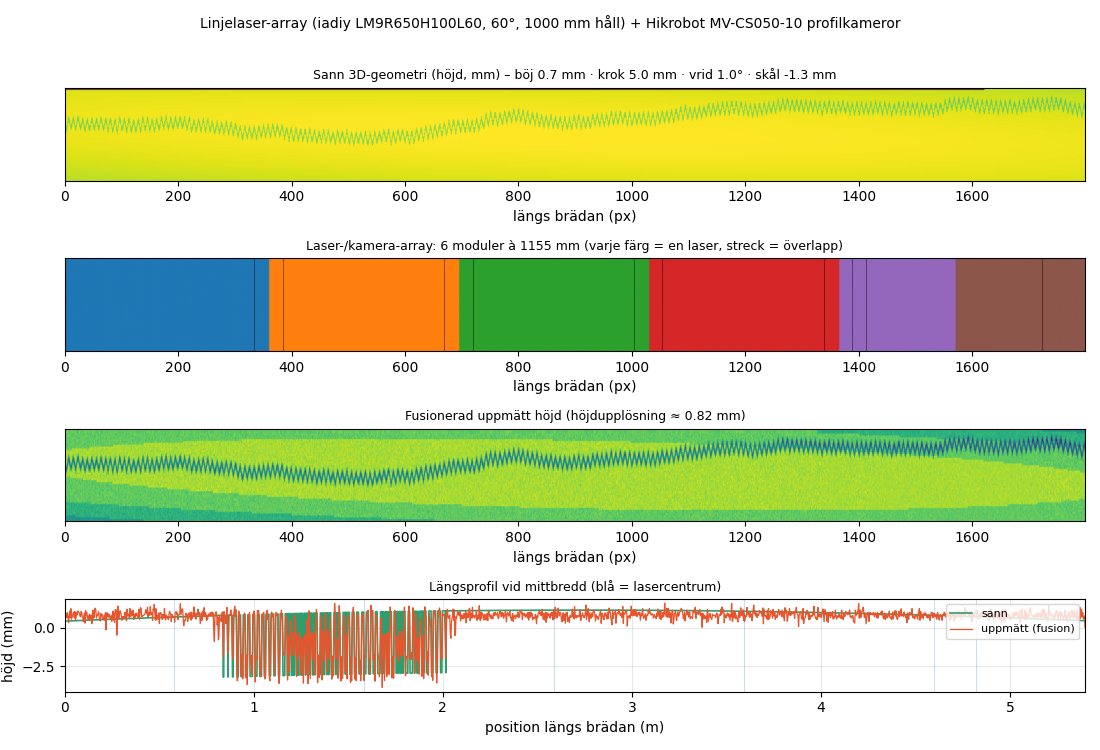
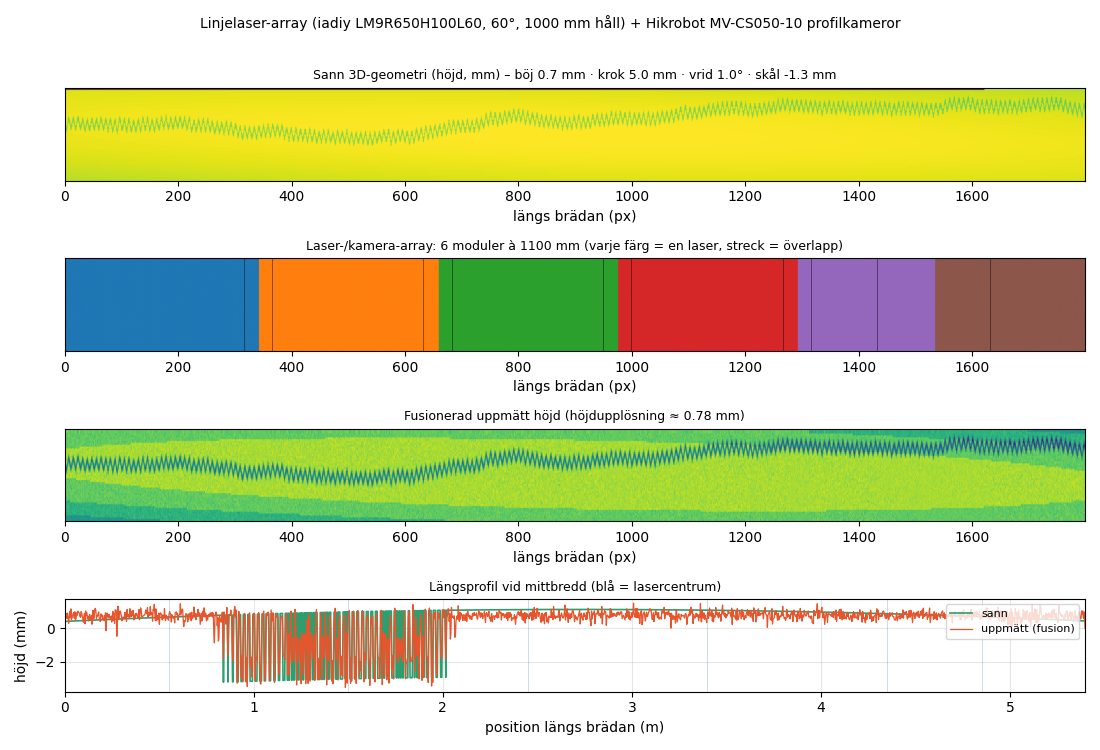
Rätt lasergeometri + synliga laserstripar i 3D-scenen
Korrigerar geometrin enligt verkligheten: brädan matas in med kortsidan, varje
laserstripe går TVÄRS de 150 mm bredden (inte längs 5,4 m-långsidan), och en
array av moduler tilar LÄNGDEN med överlapp + fusion.

- src/hardware.py: lasern dimensioneras för bredden (klarar 1,2 m linje men bara
  150 mm används); segmentlängden styrs av profilkamerans synfält längs längden
  (1100 mm). 6 lasrar + 6 profilkameror, 150 mm överlapp, 100 % täckning,
  höjdupplösning ~0,78 mm.
- scene.js (frontend + referens): ersätter den enda långa skannlinjen med en
  array av 6 laserstripar TVÄRS bredden, placerade längs längden, var och en
  med ett laserblad som triangulerar. Stripparna skalar med brädbredden.

diff --git a/claude_code_woody/js/scene.js b/claude_code_woody/js/scene.js
@@ -24,7 +24,8 @@
   };
 
   let renderer, scene, camera;
-  let scanLine, laserSheet, tracheidBeam, xrayBeam, underBeam, ledRing = [];
+  let laserStripes = [], laserFans = [], tracheidBeam, xrayBeam, underBeam, ledRing = [];
+  const NLAS = 6;                 // laser-/kameramoduler i array längs längden
   let sawBlade, pusherA, pusherB;
   let chains = [];
   const slots = [];
@@ -244,15 +245,23 @@
       g.add(led); ledRing.push(led);
     }
 
-    // skannlinje längs Z (hela längden)
-    scanLine = new T.Mesh(new T.PlaneGeometry(0.05, BOARD_LEN * 1.04),
-      new T.MeshBasicMaterial({ color: COL.laser, transparent: true, opacity: 0.95, depthWrite: false }));
-    scanLine.rotation.x = -Math.PI / 2; scanLine.position.set(SCAN_X, 0.03, 0); g.add(scanLine);
-
-    laserSheet = sheet(SCAN_X, 1.78, SCAN_X, 0.03, BOARD_LEN / 2, COL.laser, 0.12); g.add(laserSheet);
-    laserSheet.geometry.attributes.position.array[0] = SCAN_X - 0.5; // luta lite (triangulering)
-    laserSheet.geometry.attributes.position.array[3] = SCAN_X - 0.5;
-    laserSheet.geometry.attributes.position.needsUpdate = true;
+    // Laser-array: NLAS stripar TVÄRS bredden (X), tilade längs längden (Z) med
+    // överlapp. Brädan matas in med kortsidan; varje laser går över de 150 mm,
+    // och tillsammans täcker modulerna hela längden.
+    laserStripes = []; laserFans = [];
+    for (let i = 0; i < NLAS; i++) {
+      const z = (-0.5 + (i + 0.5) / NLAS) * BOARD_LEN;     // segmentcentrum längs längden
+      const strip = new T.Mesh(new T.BoxGeometry(1.0, 0.01, 0.05),
+        new T.MeshBasicMaterial({ color: COL.laser, transparent: true, opacity: 0.95, depthWrite: false }));
+      strip.position.set(SCAN_X, 0.034, z); strip.scale.x = curW;
+      g.add(strip); laserStripes.push(strip);
+      // laserblad (vertikal sheet tvärs bredden) som triangulerar
+      const fan = new T.Mesh(new T.PlaneGeometry(1.0, 1.9),
+        new T.MeshBasicMaterial({ color: COL.laser, transparent: true, opacity: 0.1,
+          side: T.DoubleSide, depthWrite: false }));
+      fan.position.set(SCAN_X, 0.98, z); fan.scale.x = curW;
+      g.add(fan); laserFans.push(fan);
+    }
     tracheidBeam = sheet(SCAN_X + 0.25, 1.78, SCAN_X + 0.05, 0.03, BOARD_LEN / 2 * 0.92, COL.tracheid, 0.1); g.add(tracheidBeam);
     xrayBeam = sheet(SCAN_X, 1.95, SCAN_X, -0.3, BOARD_LEN / 2 * 1.02, COL.blue, 0.07); g.add(xrayBeam);
 
@@ -356,7 +365,12 @@
     }
   }
 
-  function setWidth(wu) { curW = wu; for (const s of slots) s.group.scale.z = wu; }
+  function setWidth(wu) {
+    curW = wu;
+    for (const s of slots) s.group.scale.z = wu;
+    for (const m of laserStripes) m.scale.x = wu;   // stripen = brädans bredd
+    for (const m of laserFans) m.scale.x = wu;
+  }
 
   function update(state) {
     for (const s of slots) {
@@ -370,14 +384,14 @@
         u.uLightDir.value.set(Math.cos(a) * 0.8, 0.55, Math.sin(a) * 0.8).normalize();
       } else u.uLightDir.value.set(0.4, 0.55, 0.85).normalize();
     }
-    scanLine.material.opacity = 0.7 + 0.3 * Math.sin(state.time * 8);
+    for (const s of laserStripes) s.material.opacity = 0.7 + 0.3 * Math.sin(state.time * 8);
     if (state.channel === 1) {
       const a = state.time * 1.6;
       const act = Math.floor((a / (Math.PI * 2)) * ledRing.length) % ledRing.length;
       ledRing.forEach((l, i) => l.material.emissiveIntensity = (i === act ? 2.4 : 0.12));
     } else ledRing.forEach(l => l.material.emissiveIntensity = 0.15);
 
-    laserSheet.material.opacity = (state.channel === 4 || state.channel === 0) ? 0.16 : 0.07;
+    for (const f of laserFans) f.material.opacity = (state.channel === 4 || state.channel === 0) ? 0.14 : 0.06;
     tracheidBeam.material.opacity = state.channel === 2 ? 0.22 : 0.05;
     xrayBeam.material.opacity = state.showXray ? 0.12 : 0.04;
     underBeam.material.opacity = state.showUnder ? 0.2 : 0.06;

diff --git a/web/frontend/src/engine/scene.js b/web/frontend/src/engine/scene.js
@@ -24,7 +24,8 @@
   };
 
   let renderer, scene, camera;
-  let scanLine, laserSheet, tracheidBeam, xrayBeam, underBeam, ledRing = [];
+  let laserStripes = [], laserFans = [], tracheidBeam, xrayBeam, underBeam, ledRing = [];
+  const NLAS = 6;                 // laser-/kameramoduler i array längs längden
   let sawBlade, pusherA, pusherB;
   let chains = [];
   const slots = [];
@@ -244,15 +245,23 @@
       g.add(led); ledRing.push(led);
     }
 
-    // skannlinje längs Z (hela längden)
-    scanLine = new T.Mesh(new T.PlaneGeometry(0.05, BOARD_LEN * 1.04),
-      new T.MeshBasicMaterial({ color: COL.laser, transparent: true, opacity: 0.95, depthWrite: false }));
-    scanLine.rotation.x = -Math.PI / 2; scanLine.position.set(SCAN_X, 0.03, 0); g.add(scanLine);
-
-    laserSheet = sheet(SCAN_X, 1.78, SCAN_X, 0.03, BOARD_LEN / 2, COL.laser, 0.12); g.add(laserSheet);
-    laserSheet.geometry.attributes.position.array[0] = SCAN_X - 0.5; // luta lite (triangulering)
-    laserSheet.geometry.attributes.position.array[3] = SCAN_X - 0.5;
-    laserSheet.geometry.attributes.position.needsUpdate = true;
+    // Laser-array: NLAS stripar TVÄRS bredden (X), tilade längs längden (Z) med
+    // överlapp. Brädan matas in med kortsidan; varje laser går över de 150 mm,
+    // och tillsammans täcker modulerna hela längden.
+    laserStripes = []; laserFans = [];
+    for (let i = 0; i < NLAS; i++) {
+      const z = (-0.5 + (i + 0.5) / NLAS) * BOARD_LEN;     // segmentcentrum längs längden
+      const strip = new T.Mesh(new T.BoxGeometry(1.0, 0.01, 0.05),
+        new T.MeshBasicMaterial({ color: COL.laser, transparent: true, opacity: 0.95, depthWrite: false }));
+      strip.position.set(SCAN_X, 0.034, z); strip.scale.x = curW;
+      g.add(strip); laserStripes.push(strip);
+      // laserblad (vertikal sheet tvärs bredden) som triangulerar
+      const fan = new T.Mesh(new T.PlaneGeometry(1.0, 1.9),
+        new T.MeshBasicMaterial({ color: COL.laser, transparent: true, opacity: 0.1,
+          side: T.DoubleSide, depthWrite: false }));
+      fan.position.set(SCAN_X, 0.98, z); fan.scale.x = curW;
+      g.add(fan); laserFans.push(fan);
+    }
     tracheidBeam = sheet(SCAN_X + 0.25, 1.78, SCAN_X + 0.05, 0.03, BOARD_LEN / 2 * 0.92, COL.tracheid, 0.1); g.add(tracheidBeam);
     xrayBeam = sheet(SCAN_X, 1.95, SCAN_X, -0.3, BOARD_LEN / 2 * 1.02, COL.blue, 0.07); g.add(xrayBeam);
 
@@ -356,7 +365,12 @@
     }
   }
 
-  function setWidth(wu) { curW = wu; for (const s of slots) s.group.scale.z = wu; }
+  function setWidth(wu) {
+    curW = wu;
+    for (const s of slots) s.group.scale.z = wu;
+    for (const m of laserStripes) m.scale.x = wu;   // stripen = brädans bredd
+    for (const m of laserFans) m.scale.x = wu;
+  }
 
   function update(state) {
     for (const s of slots) {
@@ -370,14 +384,14 @@
         u.uLightDir.value.set(Math.cos(a) * 0.8, 0.55, Math.sin(a) * 0.8).normalize();
       } else u.uLightDir.value.set(0.4, 0.55, 0.85).normalize();
     }
-    scanLine.material.opacity = 0.7 + 0.3 * Math.sin(state.time * 8);
+    for (const s of laserStripes) s.material.opacity = 0.7 + 0.3 * Math.sin(state.time * 8);
     if (state.channel === 1) {
       const a = state.time * 1.6;
       const act = Math.floor((a / (Math.PI * 2)) * ledRing.length) % ledRing.length;
       ledRing.forEach((l, i) => l.material.emissiveIntensity = (i === act ? 2.4 : 0.12));
     } else ledRing.forEach(l => l.material.emissiveIntensity = 0.15);
 
-    laserSheet.material.opacity = (state.channel === 4 || state.channel === 0) ? 0.16 : 0.07;
+    for (const f of laserFans) f.material.opacity = (state.channel === 4 || state.channel === 0) ? 0.14 : 0.06;
     tracheidBeam.material.opacity = state.channel === 2 ? 0.22 : 0.05;
     xrayBeam.material.opacity = state.showXray ? 0.12 : 0.04;
     underBeam.material.opacity = state.showUnder ? 0.2 : 0.06;

diff --git a/src/hardware.py b/src/hardware.py
@@ -69,6 +69,7 @@ class Rig:
     board_width_mm: float = 150.0
     tri_angle_deg: float = 30.0          # vinkel laser–kamera (triangulering)
     overlap_mm: float = 150.0            # överlapp mellan grann-segment
+    profile_len_fov_mm: float = 1100.0   # profilkamerans synfält LÄNGS längden/modul
     profile_height_range_mm: float = 50.0  # antaget mätrange (DOF) per profilkamera
     feed_mps: float = 0.25
 
@@ -94,9 +95,12 @@ class Rig:
             self.surface_cam.line_rate_hz / 1e9
 
     # --- laser-/kamera-array (triangulering) ---
+    # Brädan matas in med kortsidan (bredden); varje laserstripe går TVÄRS de
+    # ~150 mm (lasern klarar en längre linje men bara bredden används). Arrayen
+    # tilar LÄNGDEN: segmentlängd = profilkamerans synfält längs längden.
     @property
     def seg_len_mm(self) -> float:
-        return self.laser.line_length_mm
+        return self.profile_len_fov_mm
 
     @property
     def n_lasers(self) -> int:
@@ -137,7 +141,9 @@ class Rig:
             "laser": self.laser.name,
             "fan_deg": self.laser.fan_angle_deg,
             "working_distance_mm": self.laser.working_distance_mm,
-            "seg_len_mm": round(self.seg_len_mm, 0),
+            "laser_line_capability_mm": round(self.laser.line_length_mm, 0),
+            "laser_covers_width_mm": self.board_width_mm,
+            "seg_len_mm (kamera-FOV/längd)": round(self.seg_len_mm, 0),
             "overlap_mm": self.overlap_mm,
             "n_lasers": self.n_lasers,
             "n_profile_cams": self.n_profile_cams,
